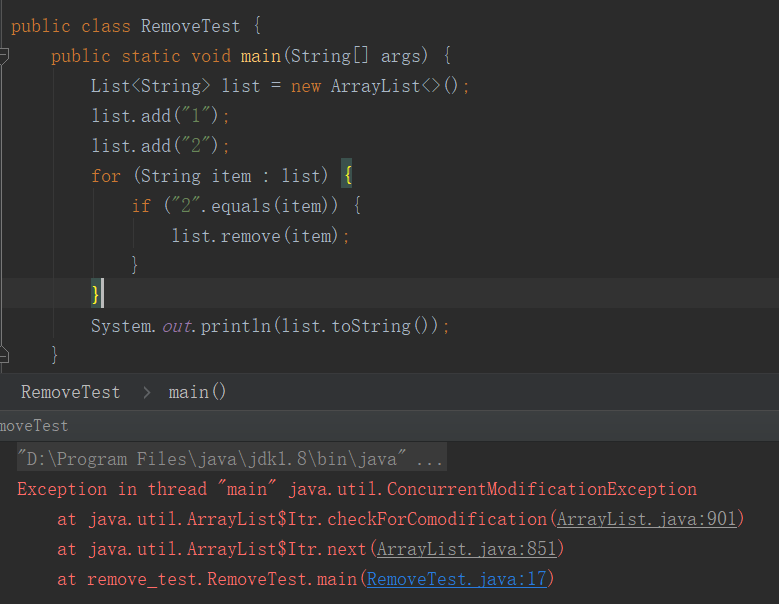
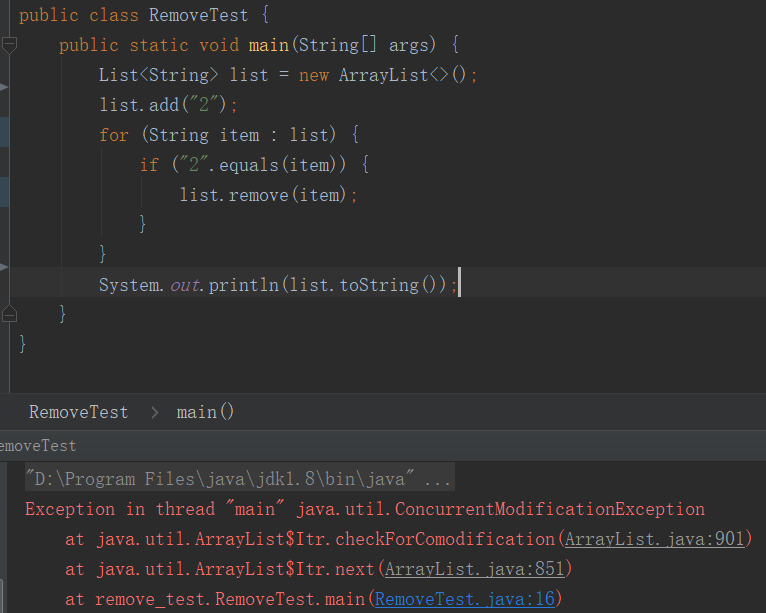
no message

diff --git a/src/remove_test/RemoveTest.java b/src/remove_test/RemoveTest.java
@@ -12,7 +12,6 @@ import java.util.List;
 public class RemoveTest {
     public static void main(String[] args) {
         List<String> list = new ArrayList<>();
-        list.add("1");
         list.add("2");
         Iterator<String> iterator = list.iterator();
         while (iterator.hasNext()) {
